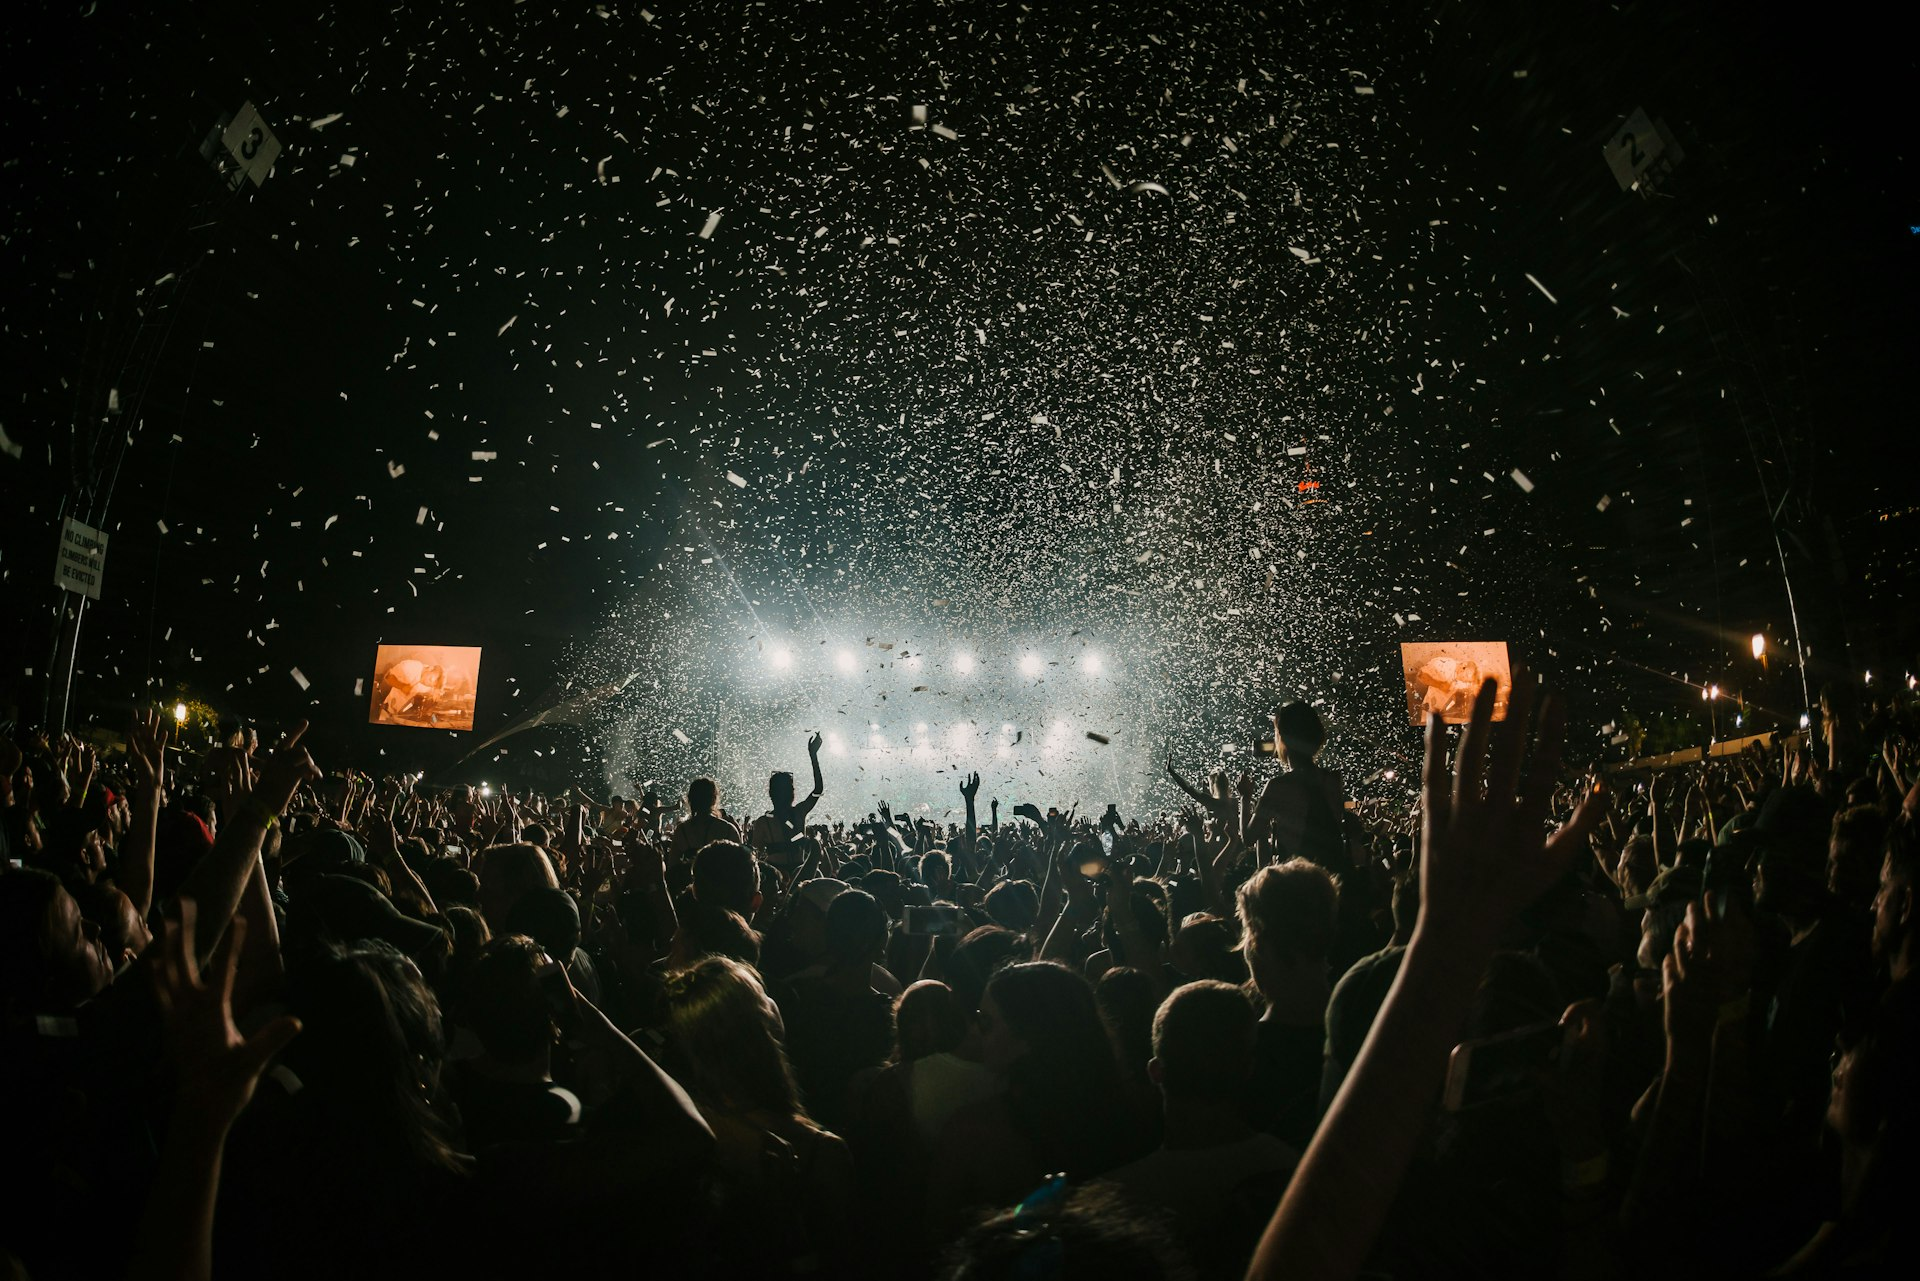
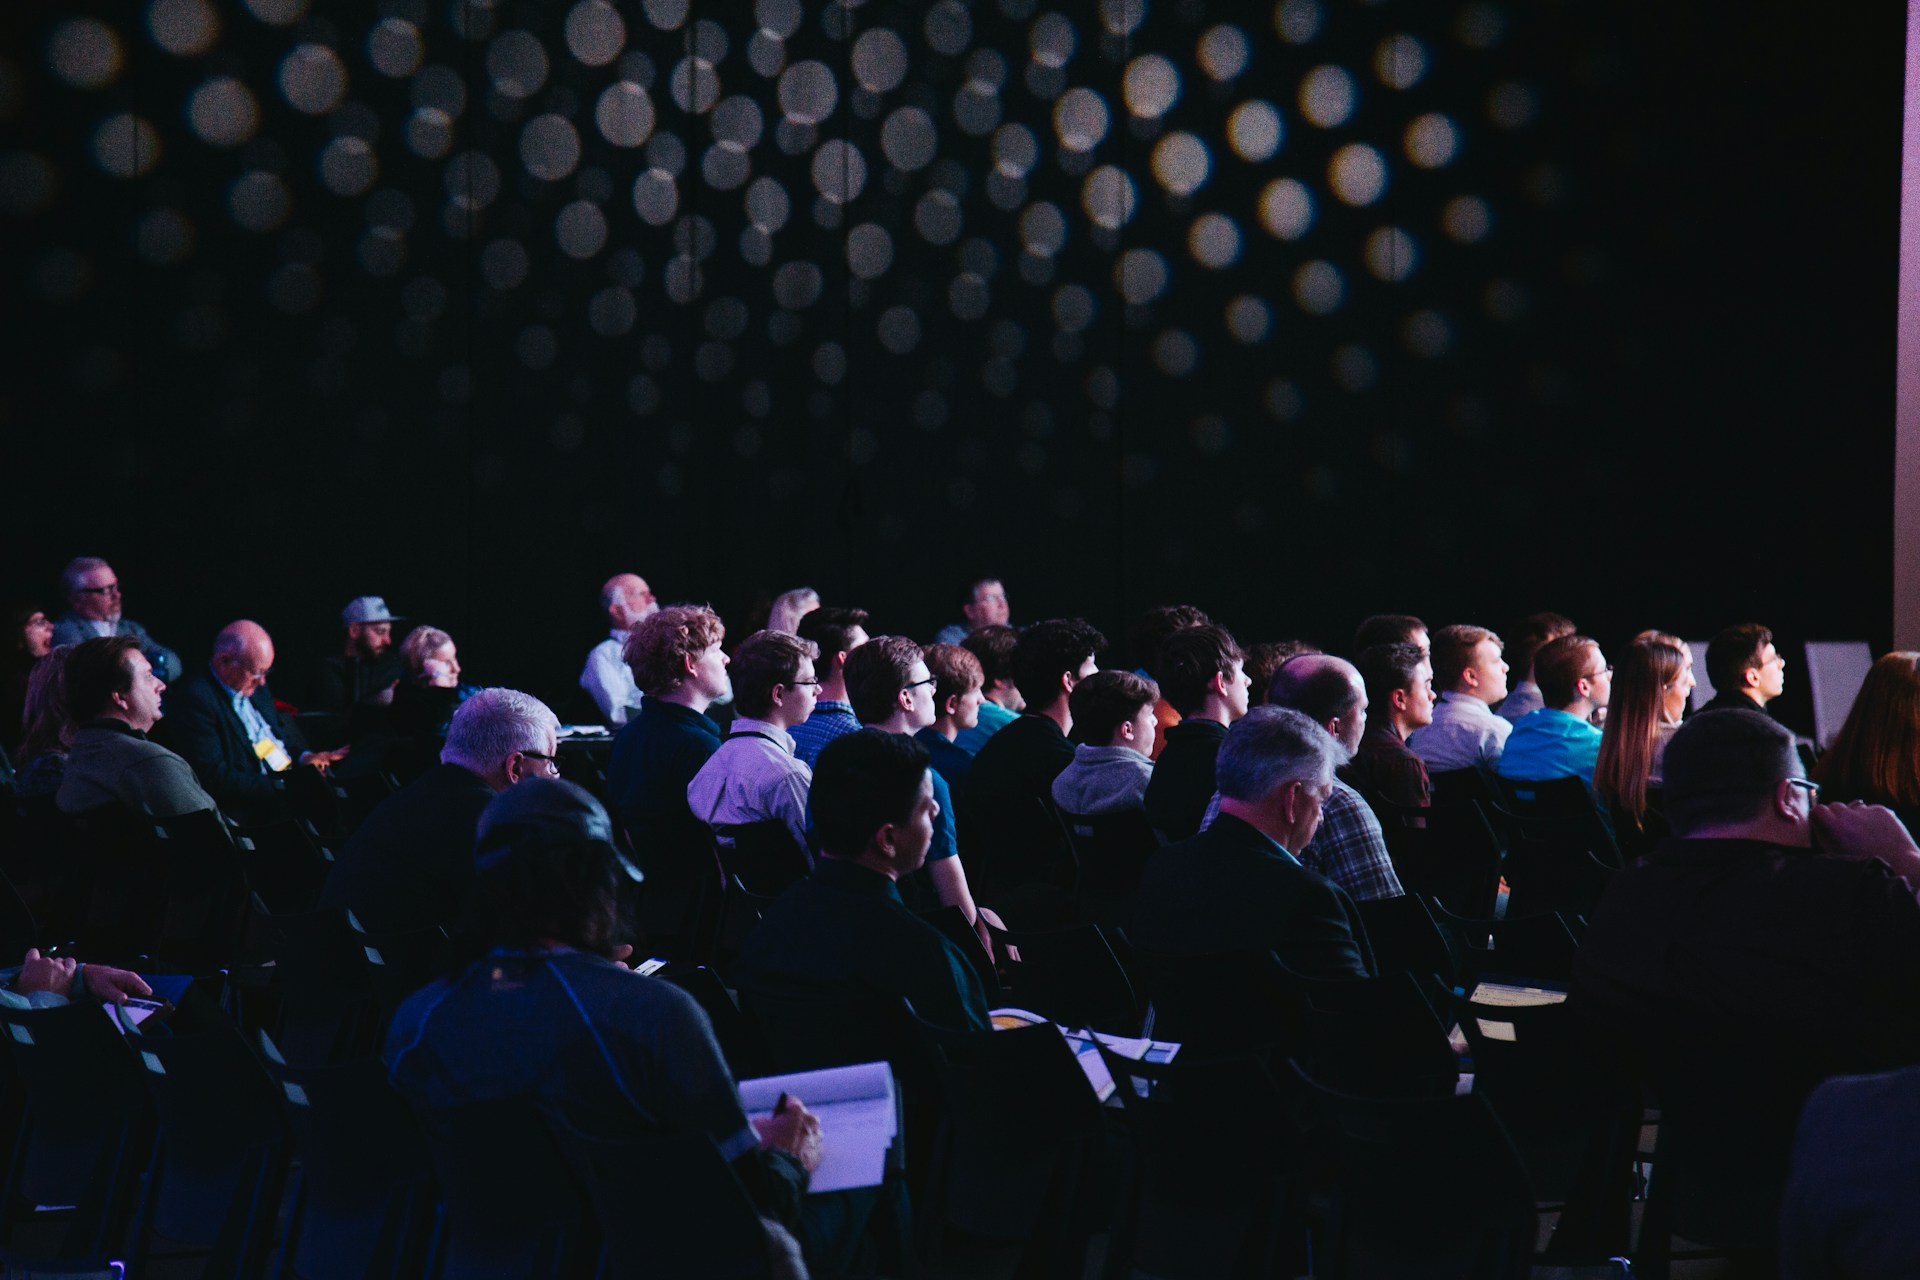
chore(home): hero com foto de evento corporativo (Unsplash)
Troca o festival por auditório/conferência — claramente evento.
Fonte: unsplash.com/photos/photo-1540575467063-178a50c2df87

diff --git a/frontend/src/components/home-audiencias-dual.tsx b/frontend/src/components/home-audiencias-dual.tsx
@@ -5,8 +5,9 @@ import { HomeHeroExplorar } from "@/components/home-hero-explorar";
 
 /**
  * Hero de lançamento (v1.50.1): fundo claro + verde da marca + foto de evento.
- * Imagem stock em `/marketing/hero-evento.webp` (Unsplash festival; antes: show).
- * Trocar pelo arquivo real no mesmo path quando houver foto própria.
+ * Foto stock (grátis) em `/marketing/hero-evento.webp`:
+ * Unsplash — conferência/auditório `photo-1540575467063-178a50c2df87`
+ * (https://unsplash.com). Trocar pelo arquivo real no mesmo path depois.
  */
 export function HomeAudienciasDual() {
   return (
